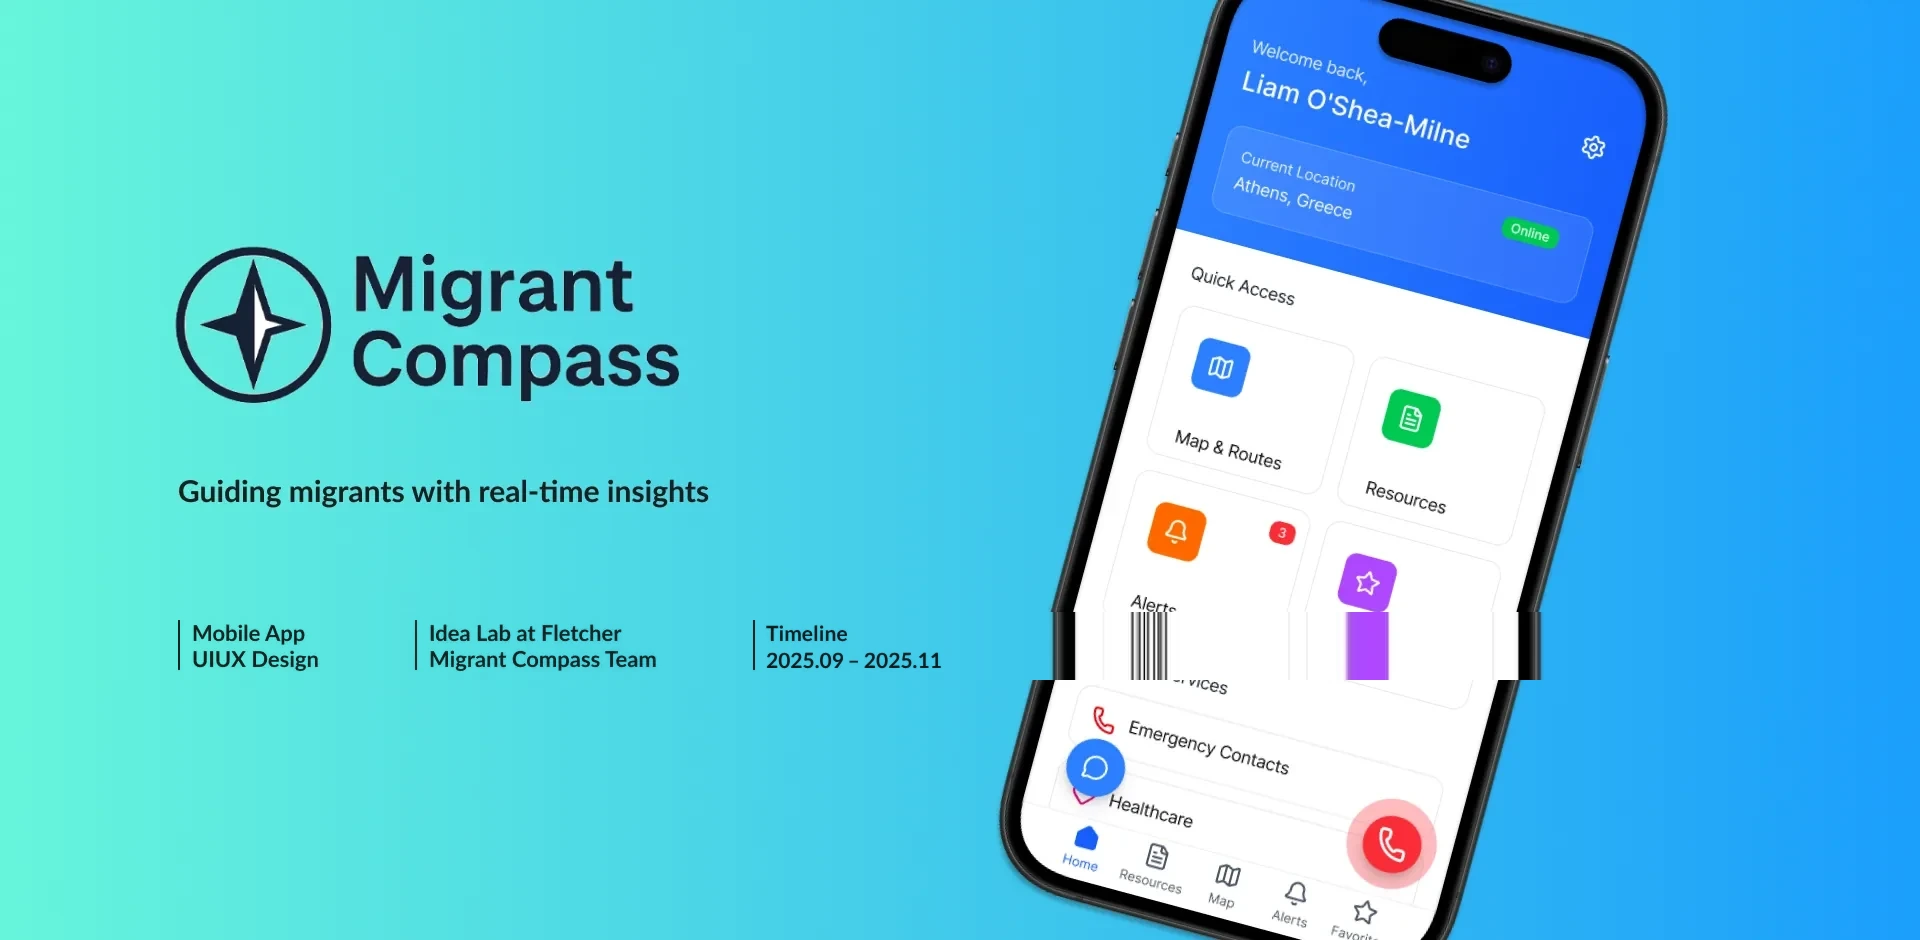
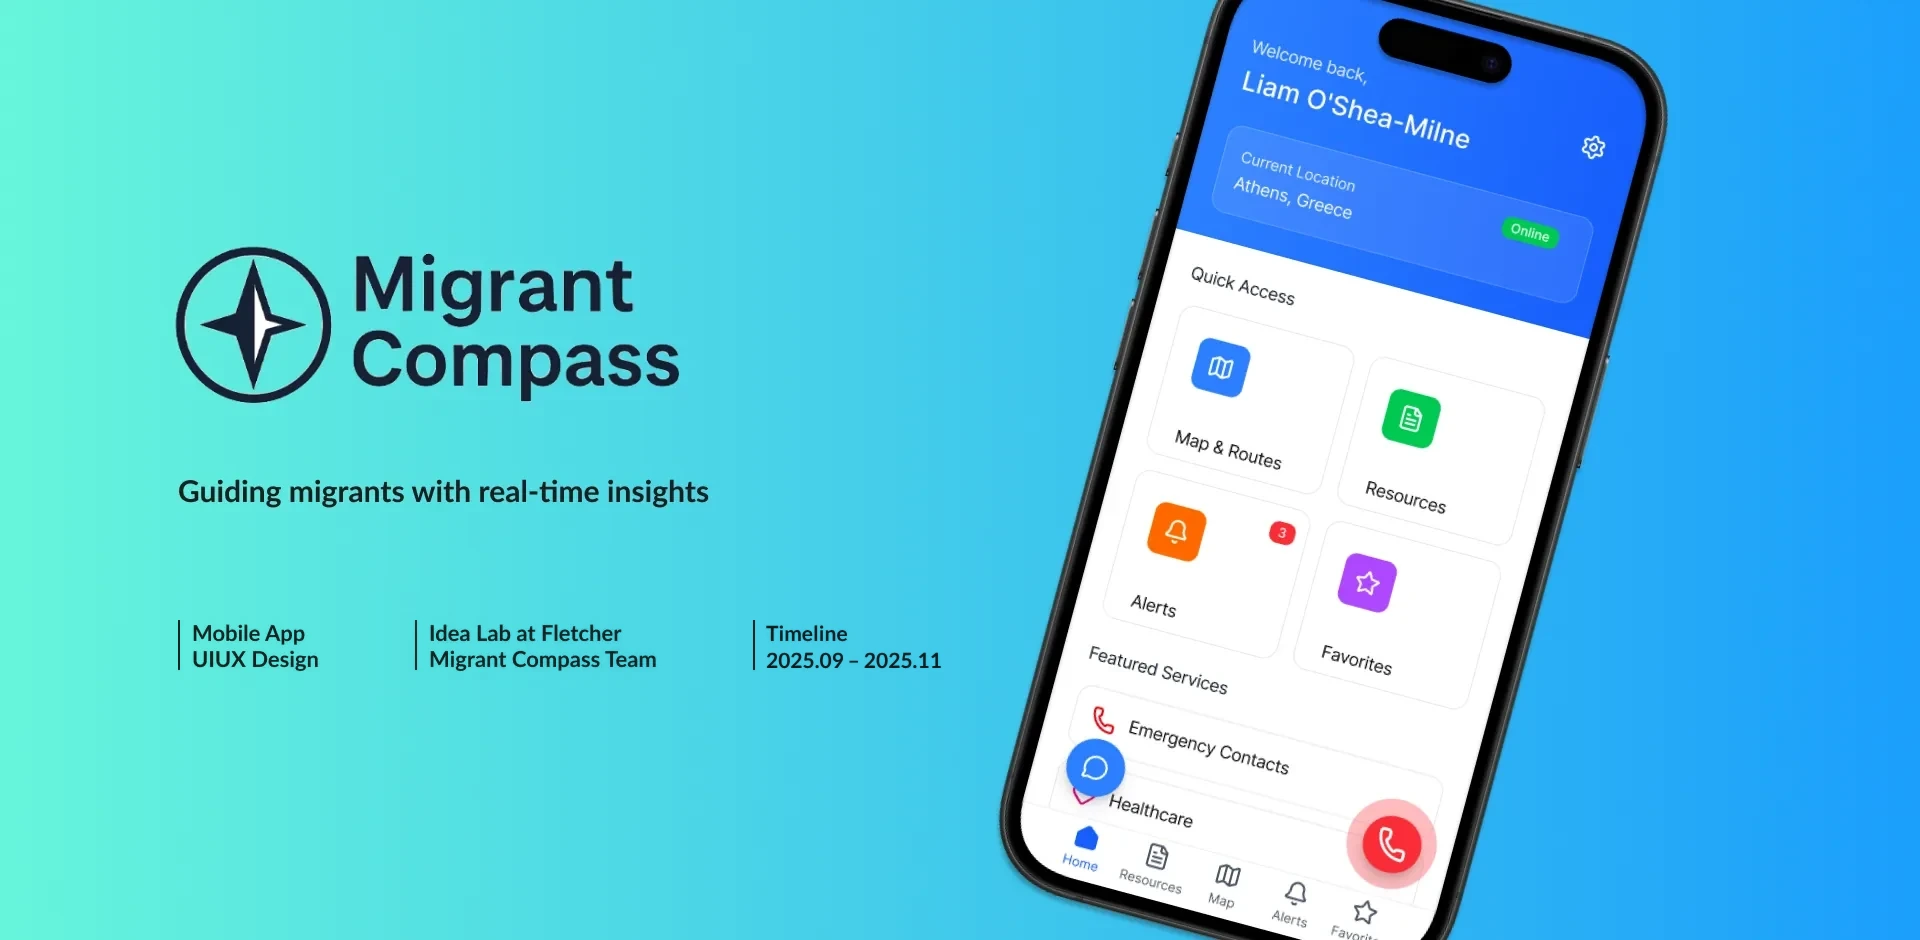
Fix Migrant Compass cover: restore phone strip damaged by column re-spacing
Claude-Session: https://claude.ai/code/session_01XrSCNk8CdZFL88DQkgrBgR

Changed region(s): [[0.5312, 0.6479, 0.625, 0.7404], [0.6875, 0.6479, 0.75, 0.7404], [0.7812, 0.6479, 0.8125, 0.7404]]

diff --git a/ux.html b/ux.html
@@ -27,7 +27,7 @@
 <main class="page page-page" id="ux">
 <div class="page-content">
 <header class="cs-head"><h1 class="cs-title">UX Design<span class="dot">.</span></h1><p class="cs-sub">Case studies in research, product design and building, from internships, leadership roles and team projects.</p></header>
-<div class="gproj-list gproj-list--stack"><a class="gproj" href="now-institute.html"><div class="gproj-cover gproj-cover--bleed" style="aspect-ratio:2000/1060"><img alt="Now Institute cover" loading="lazy" onerror="this.hidden=true" src="images/index/01-screenshot-2026-07-07-at-2.21.54pm.webp"/></div><div class="gproj-txt"><span class="gproj-n">(01)</span><h2 class="gproj-t">Now Institute</h2><p class="gproj-sub">Two websites for Morphosis Architects’ urban research wing</p><p class="gproj-d">Designed and vibe-coded Noto Now and the Now Institute site, from research on every project to two live launches.</p><dl class="gproj-meta"><dt>Year</dt><dd>May – Jul 2026</dd><dt>Role</dt><dd>UX Design Intern, Morphosis</dd><dt>Tools</dt><dd>Figma, Claude Code, Vercel</dd></dl><div class="gproj-strip" style="grid-template-columns:177.78fr 166.67fr"><img alt="" loading="lazy" src="images/now-institute/02-screenshot-2026-07-13-at-3.52.46pm.webp" style="aspect-ratio:1.7778"/><img alt="" loading="lazy" src="images/now-institute/04-notonow.png" style="aspect-ratio:1.6667"/></div><span class="gproj-go">View case study →</span></div></a><a class="gproj" href="hfes-stg.html"><div class="gproj-cover gproj-cover--bleed" style="aspect-ratio:2000/1000"><img alt="HFES STG cover" loading="lazy" onerror="this.hidden=true" src="images/index/cover-hfes-stg.webp"/></div><div class="gproj-txt"><span class="gproj-n">(02)</span><h2 class="gproj-t">HFES STG</h2><p class="gproj-sub">A website for the Sustainability Technical Group</p><p class="gproj-d">Led a volunteer team from a 200+ member survey through card sorting, testing and launch.</p><dl class="gproj-meta"><dt>Year</dt><dd>Aug 2025 – May 2026</dd><dt>Role</dt><dd>Website Lead</dd><dt>Methods</dt><dd>Survey, card sort, usability tests</dd></dl><div class="gproj-strip" style="grid-template-columns:196.46fr 133.78fr"><img alt="" loading="lazy" src="images/hfes-stg/04-screenshot-2026-03-27-at-3.34.46pm.png" style="aspect-ratio:1.9646"/><img alt="" loading="lazy" src="images/hfes-stg/06-wireframes.png" style="aspect-ratio:1.3378"/></div><span class="gproj-go">View case study →</span></div></a><a class="gproj" href="migrant-compass.html"><div class="gproj-cover gproj-cover--bleed" style="aspect-ratio:1920/940"><img alt="Migrant Compass cover" loading="lazy" onerror="this.hidden=true" src="images/index/05-title-page1.webp?v=3"/></div><div class="gproj-txt"><span class="gproj-n">(03)</span><h2 class="gproj-t">Migrant Compass</h2><p class="gproj-sub">Real-time guidance for migrants</p><p class="gproj-d">An offline-ready app giving migrants verified safety updates and resources, built at the IDEA Lab @ Fletcher.</p><dl class="gproj-meta"><dt>Year</dt><dd>Sep – Nov 2025</dd><dt>Role</dt><dd>UX research & design</dd><dt>Tools</dt><dd>Figma</dd></dl><div class="gproj-strip" style="grid-template-columns:50.96fr 51.02fr 51.02fr 45.40fr"><img alt="" loading="lazy" src="images/migrant-compass/06-migrant-compass-mobile-app-wireframe.png" style="aspect-ratio:0.5096"/><img alt="" loading="lazy" src="images/migrant-compass/15-migrant-compass-mobile-app-wireframe.png" style="aspect-ratio:0.5102"/><img alt="" loading="lazy" src="images/migrant-compass/19-w.png" style="aspect-ratio:0.5102"/><img alt="" loading="lazy" src="images/migrant-compass/21-4.png" style="aspect-ratio:0.4540"/></div><span class="gproj-go">View case study →</span></div></a><a class="gproj" href="travel-mate.html"><div class="gproj-cover gproj-cover--bleed" style="aspect-ratio:2000/1060"><img alt="Travel Mate cover" loading="lazy" onerror="this.hidden=true" src="images/index/cover-travel-mate.webp?v=7"/></div><div class="gproj-txt"><span class="gproj-n">(04)</span><h2 class="gproj-t">Travel Mate</h2><p class="gproj-sub">Group travel planning app</p><p class="gproj-d">Search, shared itineraries and expenses for planning a Korea trip with friends, designed with developers.</p><dl class="gproj-meta"><dt>Year</dt><dd>Sep – Dec 2024</dd><dt>Role</dt><dd>UX design, design system</dd><dt>Team</dt><dd>3 designers, 2 developers</dd></dl><div class="gproj-strip" style="grid-template-columns:83.95fr 78.85fr 134.05fr"><img alt="" loading="lazy" src="images/travel-mate/08-ia.png" style="aspect-ratio:0.8395"/><img alt="" loading="lazy" src="images/travel-mate/31-sheet-stay-dates.webp" style="aspect-ratio:0.7885"/><img alt="" loading="lazy" src="images/travel-mate/32-sheet-trip-dates.webp" style="aspect-ratio:1.3405"/></div><span class="gproj-go">View case study →</span></div></a><a class="gproj" href="trendy.html"><div class="gproj-cover gproj-cover--bleed" style="aspect-ratio:1500/734"><img alt="Trendy cover" loading="lazy" onerror="this.hidden=true" src="images/trendy/01-trendy.webp?v=2"/></div><div class="gproj-txt"><span class="gproj-n">(05)</span><h2 class="gproj-t">Trendy</h2><p class="gproj-sub">Beauty & fashion trend app</p><p class="gproj-d">A solo project taking a trend-shopping app from interviews and competitor research to brand and UI.</p><dl class="gproj-meta"><dt>Year</dt><dd>Jun – Aug 2024</dd><dt>Role</dt><dd>Solo designer</dd><dt>Methods</dt><dd>Interviews, journey map</dd></dl><div class="gproj-strip" style="grid-template-columns:196.42fr 167.52fr"><img alt="" loading="lazy" src="images/trendy/05-persona.webp?v=2" style="aspect-ratio:1.9642"/><img alt="" loading="lazy" src="images/trendy/10-final-screens.webp" style="aspect-ratio:1.6752"/></div><span class="gproj-go">View case study →</span></div></a></div>
+<div class="gproj-list gproj-list--stack"><a class="gproj" href="now-institute.html"><div class="gproj-cover gproj-cover--bleed" style="aspect-ratio:2000/1060"><img alt="Now Institute cover" loading="lazy" onerror="this.hidden=true" src="images/index/01-screenshot-2026-07-07-at-2.21.54pm.webp"/></div><div class="gproj-txt"><span class="gproj-n">(01)</span><h2 class="gproj-t">Now Institute</h2><p class="gproj-sub">Two websites for Morphosis Architects’ urban research wing</p><p class="gproj-d">Designed and vibe-coded Noto Now and the Now Institute site, from research on every project to two live launches.</p><dl class="gproj-meta"><dt>Year</dt><dd>May – Jul 2026</dd><dt>Role</dt><dd>UX Design Intern, Morphosis</dd><dt>Tools</dt><dd>Figma, Claude Code, Vercel</dd></dl><div class="gproj-strip" style="grid-template-columns:177.78fr 166.67fr"><img alt="" loading="lazy" src="images/now-institute/02-screenshot-2026-07-13-at-3.52.46pm.webp" style="aspect-ratio:1.7778"/><img alt="" loading="lazy" src="images/now-institute/04-notonow.png" style="aspect-ratio:1.6667"/></div><span class="gproj-go">View case study →</span></div></a><a class="gproj" href="hfes-stg.html"><div class="gproj-cover gproj-cover--bleed" style="aspect-ratio:2000/1000"><img alt="HFES STG cover" loading="lazy" onerror="this.hidden=true" src="images/index/cover-hfes-stg.webp"/></div><div class="gproj-txt"><span class="gproj-n">(02)</span><h2 class="gproj-t">HFES STG</h2><p class="gproj-sub">A website for the Sustainability Technical Group</p><p class="gproj-d">Led a volunteer team from a 200+ member survey through card sorting, testing and launch.</p><dl class="gproj-meta"><dt>Year</dt><dd>Aug 2025 – May 2026</dd><dt>Role</dt><dd>Website Lead</dd><dt>Methods</dt><dd>Survey, card sort, usability tests</dd></dl><div class="gproj-strip" style="grid-template-columns:196.46fr 133.78fr"><img alt="" loading="lazy" src="images/hfes-stg/04-screenshot-2026-03-27-at-3.34.46pm.png" style="aspect-ratio:1.9646"/><img alt="" loading="lazy" src="images/hfes-stg/06-wireframes.png" style="aspect-ratio:1.3378"/></div><span class="gproj-go">View case study →</span></div></a><a class="gproj" href="migrant-compass.html"><div class="gproj-cover gproj-cover--bleed" style="aspect-ratio:1920/940"><img alt="Migrant Compass cover" loading="lazy" onerror="this.hidden=true" src="images/index/05-title-page1.webp?v=4"/></div><div class="gproj-txt"><span class="gproj-n">(03)</span><h2 class="gproj-t">Migrant Compass</h2><p class="gproj-sub">Real-time guidance for migrants</p><p class="gproj-d">An offline-ready app giving migrants verified safety updates and resources, built at the IDEA Lab @ Fletcher.</p><dl class="gproj-meta"><dt>Year</dt><dd>Sep – Nov 2025</dd><dt>Role</dt><dd>UX research & design</dd><dt>Tools</dt><dd>Figma</dd></dl><div class="gproj-strip" style="grid-template-columns:50.96fr 51.02fr 51.02fr 45.40fr"><img alt="" loading="lazy" src="images/migrant-compass/06-migrant-compass-mobile-app-wireframe.png" style="aspect-ratio:0.5096"/><img alt="" loading="lazy" src="images/migrant-compass/15-migrant-compass-mobile-app-wireframe.png" style="aspect-ratio:0.5102"/><img alt="" loading="lazy" src="images/migrant-compass/19-w.png" style="aspect-ratio:0.5102"/><img alt="" loading="lazy" src="images/migrant-compass/21-4.png" style="aspect-ratio:0.4540"/></div><span class="gproj-go">View case study →</span></div></a><a class="gproj" href="travel-mate.html"><div class="gproj-cover gproj-cover--bleed" style="aspect-ratio:2000/1060"><img alt="Travel Mate cover" loading="lazy" onerror="this.hidden=true" src="images/index/cover-travel-mate.webp?v=7"/></div><div class="gproj-txt"><span class="gproj-n">(04)</span><h2 class="gproj-t">Travel Mate</h2><p class="gproj-sub">Group travel planning app</p><p class="gproj-d">Search, shared itineraries and expenses for planning a Korea trip with friends, designed with developers.</p><dl class="gproj-meta"><dt>Year</dt><dd>Sep – Dec 2024</dd><dt>Role</dt><dd>UX design, design system</dd><dt>Team</dt><dd>3 designers, 2 developers</dd></dl><div class="gproj-strip" style="grid-template-columns:83.95fr 78.85fr 134.05fr"><img alt="" loading="lazy" src="images/travel-mate/08-ia.png" style="aspect-ratio:0.8395"/><img alt="" loading="lazy" src="images/travel-mate/31-sheet-stay-dates.webp" style="aspect-ratio:0.7885"/><img alt="" loading="lazy" src="images/travel-mate/32-sheet-trip-dates.webp" style="aspect-ratio:1.3405"/></div><span class="gproj-go">View case study →</span></div></a><a class="gproj" href="trendy.html"><div class="gproj-cover gproj-cover--bleed" style="aspect-ratio:1500/734"><img alt="Trendy cover" loading="lazy" onerror="this.hidden=true" src="images/trendy/01-trendy.webp?v=2"/></div><div class="gproj-txt"><span class="gproj-n">(05)</span><h2 class="gproj-t">Trendy</h2><p class="gproj-sub">Beauty & fashion trend app</p><p class="gproj-d">A solo project taking a trend-shopping app from interviews and competitor research to brand and UI.</p><dl class="gproj-meta"><dt>Year</dt><dd>Jun – Aug 2024</dd><dt>Role</dt><dd>Solo designer</dd><dt>Methods</dt><dd>Interviews, journey map</dd></dl><div class="gproj-strip" style="grid-template-columns:196.42fr 167.52fr"><img alt="" loading="lazy" src="images/trendy/05-persona.webp?v=2" style="aspect-ratio:1.9642"/><img alt="" loading="lazy" src="images/trendy/10-final-screens.webp" style="aspect-ratio:1.6752"/></div><span class="gproj-go">View case study →</span></div></a></div>
 <footer class="site-foot" id="contact">
 <div class="foot-row"><span>Jasmine Kim, UI/UX &amp; Graphic Designer</span>
 <span class="foot-links"><a href="mailto:jasminekim535@gmail.com">Email ↗</a><a href="https://www.linkedin.com/in/jasmine-kim-22838a339/" rel="noopener" target="_blank">LinkedIn ↗</a><a href="https://drive.google.com/file/d/1OOqGdKUFcIr9i4K3hlURFipVqCy_xz__/view?usp=sharing" rel="noopener" target="_blank">Resume ↗</a></span></div>

diff --git a/index.html b/index.html
@@ -32,7 +32,7 @@
 </header>
 <section aria-label="UX case studies" class="rsec" id="work">
 <div class="rsec-head"><h2 class="rsec-title">UX Design</h2><a class="pill" href="ux.html">See all projects</a></div>
-<div class="wkgrid wkgrid--feat"><a class="wk" href="now-institute.html"><div class="wk-img" style="aspect-ratio:2000/1060"><img alt="Now Institute cover" loading="lazy" onerror="this.hidden=true" onload="this.parentNode.style.aspectRatio='auto'" src="images/index/01-screenshot-2026-07-07-at-2.21.54pm.webp"/></div><h3 class="wk-title">Now Institute</h3><p class="wk-sub">Website Design for Morphosis</p><ul class="chips"><li>Vibe Coding</li><li>AI Tools</li><li>Prototyping</li><li>Internship</li></ul></a><a class="wk" href="hfes-stg.html"><div class="wk-img" style="aspect-ratio:2000/999"><img alt="HFES STG cover" loading="lazy" onerror="this.hidden=true" onload="this.parentNode.style.aspectRatio='auto'" src="images/index/cover-hfes-stg.webp"/></div><h3 class="wk-title">HFES STG</h3><p class="wk-sub">A website for the technical group</p><ul class="chips"><li>Leadership</li><li>Non-profit</li><li>Usability Testing</li></ul></a><a class="wk" href="migrant-compass.html"><div class="wk-img" style="aspect-ratio:1920/940"><img alt="Migrant Compass cover" loading="lazy" onerror="this.hidden=true" onload="this.parentNode.style.aspectRatio='auto'" src="images/index/05-title-page1.webp?v=3"/></div><h3 class="wk-title">Migrant Compass</h3><p class="wk-sub">Real-time guidance for migrants</p><ul class="chips"><li>Problem-solving</li><li>Teamwork</li></ul></a><a class="wk" href="travel-mate.html"><div class="wk-img" style="aspect-ratio:1500/739"><img alt="Travel Mate cover" loading="lazy" onerror="this.hidden=true" onload="this.parentNode.style.aspectRatio='auto'" src="images/index/cover-travel-mate.webp?v=7"/></div><h3 class="wk-title">Travel Mate</h3><p class="wk-sub">Group travel planning app</p><ul class="chips"><li>App Design</li><li>Cross-functional Teamwork</li></ul></a><a class="wk" href="trendy.html"><div class="wk-img" style="aspect-ratio:1500/734"><img alt="Trendy cover" loading="lazy" onerror="this.hidden=true" onload="this.parentNode.style.aspectRatio='auto'" src="images/trendy/01-trendy.webp?v=2"/></div><h3 class="wk-title">Trendy</h3><p class="wk-sub">Beauty &amp; fashion trend app</p><ul class="chips"><li>App Design</li><li>Logo Design</li><li>User Research</li></ul></a></div>
+<div class="wkgrid wkgrid--feat"><a class="wk" href="now-institute.html"><div class="wk-img" style="aspect-ratio:2000/1060"><img alt="Now Institute cover" loading="lazy" onerror="this.hidden=true" onload="this.parentNode.style.aspectRatio='auto'" src="images/index/01-screenshot-2026-07-07-at-2.21.54pm.webp"/></div><h3 class="wk-title">Now Institute</h3><p class="wk-sub">Website Design for Morphosis</p><ul class="chips"><li>Vibe Coding</li><li>AI Tools</li><li>Prototyping</li><li>Internship</li></ul></a><a class="wk" href="hfes-stg.html"><div class="wk-img" style="aspect-ratio:2000/999"><img alt="HFES STG cover" loading="lazy" onerror="this.hidden=true" onload="this.parentNode.style.aspectRatio='auto'" src="images/index/cover-hfes-stg.webp"/></div><h3 class="wk-title">HFES STG</h3><p class="wk-sub">A website for the technical group</p><ul class="chips"><li>Leadership</li><li>Non-profit</li><li>Usability Testing</li></ul></a><a class="wk" href="migrant-compass.html"><div class="wk-img" style="aspect-ratio:1920/940"><img alt="Migrant Compass cover" loading="lazy" onerror="this.hidden=true" onload="this.parentNode.style.aspectRatio='auto'" src="images/index/05-title-page1.webp?v=4"/></div><h3 class="wk-title">Migrant Compass</h3><p class="wk-sub">Real-time guidance for migrants</p><ul class="chips"><li>Problem-solving</li><li>Teamwork</li></ul></a><a class="wk" href="travel-mate.html"><div class="wk-img" style="aspect-ratio:1500/739"><img alt="Travel Mate cover" loading="lazy" onerror="this.hidden=true" onload="this.parentNode.style.aspectRatio='auto'" src="images/index/cover-travel-mate.webp?v=7"/></div><h3 class="wk-title">Travel Mate</h3><p class="wk-sub">Group travel planning app</p><ul class="chips"><li>App Design</li><li>Cross-functional Teamwork</li></ul></a><a class="wk" href="trendy.html"><div class="wk-img" style="aspect-ratio:1500/734"><img alt="Trendy cover" loading="lazy" onerror="this.hidden=true" onload="this.parentNode.style.aspectRatio='auto'" src="images/trendy/01-trendy.webp?v=2"/></div><h3 class="wk-title">Trendy</h3><p class="wk-sub">Beauty &amp; fashion trend app</p><ul class="chips"><li>App Design</li><li>Logo Design</li><li>User Research</li></ul></a></div>
 </section>
 <section aria-label="Graphic and art" class="rsec" id="designs">
 <div class="rsec-head"><h2 class="rsec-title">Graphic &amp; Art</h2><a class="pill" href="designs.html">See all projects</a></div>

diff --git a/migrant-compass.html b/migrant-compass.html
@@ -26,7 +26,7 @@
 </header>
 <main class="page page-project" id="migrant-compass">
 <div class="page-content">
-<nav aria-label="Breadcrumb" class="crumb"><a href="ux.html">← UX Design</a> / Migrant Compass</nav><header class="cs-head"><h1 class="cs-title">Migrant Compass<span class="dot">.</span></h1><p class="cs-sub">Real-time guidance for migrants</p><ul class="chips"><li>Problem-solving</li><li>Teamwork</li></ul></header><div class="hf-hero"><figure class="fg"><div class="fg-box" style="aspect-ratio:1920/940; max-width:1920px; margin-inline:auto"><img alt="Migrant Compass app" loading="lazy" onerror="this.hidden=true" src="images/migrant-compass/01-title-page1.webp?v=3"/></div></figure></div><dl class="cs-meta"><div><dt>Role</dt><dd>UX research &amp; design</dd></div><div><dt>Timeline</dt><dd>Sep – Nov 2025</dd></div><div><dt>Team</dt><dd>IDEA Lab @ Fletcher: researchers, engineers, developers</dd></div><div><dt>Tools</dt><dd>Figma</dd></div></dl><p class="ni-lede">At the IDEA Lab @ Fletcher, our team built Migrant Compass, a mobile platform that gives migrants safety updates, guidance and real-time resources.</p>
+<nav aria-label="Breadcrumb" class="crumb"><a href="ux.html">← UX Design</a> / Migrant Compass</nav><header class="cs-head"><h1 class="cs-title">Migrant Compass<span class="dot">.</span></h1><p class="cs-sub">Real-time guidance for migrants</p><ul class="chips"><li>Problem-solving</li><li>Teamwork</li></ul></header><div class="hf-hero"><figure class="fg"><div class="fg-box" style="aspect-ratio:1920/940; max-width:1920px; margin-inline:auto"><img alt="Migrant Compass app" loading="lazy" onerror="this.hidden=true" src="images/migrant-compass/01-title-page1.webp?v=4"/></div></figure></div><dl class="cs-meta"><div><dt>Role</dt><dd>UX research &amp; design</dd></div><div><dt>Timeline</dt><dd>Sep – Nov 2025</dd></div><div><dt>Team</dt><dd>IDEA Lab @ Fletcher: researchers, engineers, developers</dd></div><div><dt>Tools</dt><dd>Figma</dd></div></dl><p class="ni-lede">At the IDEA Lab @ Fletcher, our team built Migrant Compass, a mobile platform that gives migrants safety updates, guidance and real-time resources.</p>
 <section class="who" aria-labelledby="who-h">
 <div class="who-txt"><span class="csr-k">The context</span><h2 class="who-h" id="who-h">What is the IDEA Lab?</h2>
 <p>The <b>IDEA Lab @ Fletcher</b> is a student-run initiative at Tufts University’s Fletcher School. Interdisciplinary student teams take on global problems, from refugee data security to water quality.</p>
